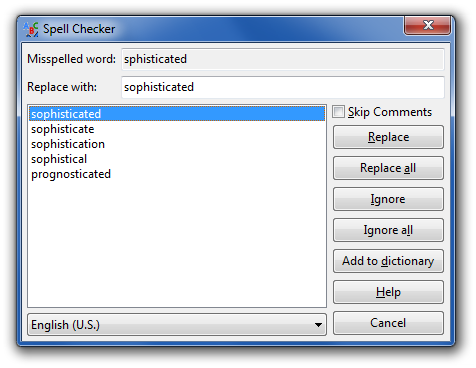
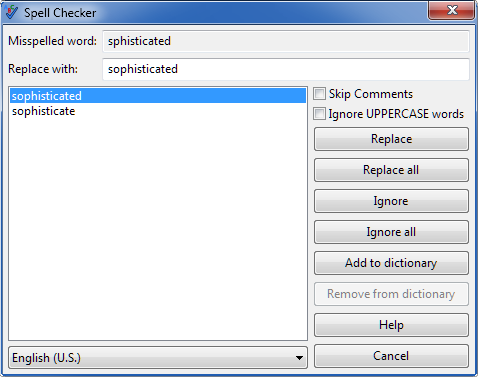
Update spell checker page

diff --git a/source/docs/3.1/Spell_Checker.html.md b/source/docs/3.1/Spell_Checker.html.md
@@ -19,6 +19,11 @@ Skip Comments
 when your comments are mostly things like karaoke scripts or the
 original script which you're translating to a new language.
 
+Ignore UPPERCASE words
+: Skip over words written in all caps. Useful if your subtitles have a sea of
+made-up acronyms and you don't feel like spending the time adding them all to
+the dictionary.
+
 Replace
 : Replaces the found misspelled word with the chosen replacement. Note
 that the list box can be double-clicked to do this as well.
@@ -37,8 +42,12 @@ but continue to check for it in the future.
 
 Add to dictionary
 : Add the found word to the dictionary so it will not be detected as
-misspelled again. Note that it is currently not possible to remove
-words added from within Aegisub.
+misspelled again.
+
+Remove from dictionary
+: Remove the word currently in the **Replace with** field from the dictionary.
+Can only remove words which were added with the **Add to dictionary** function
+and not words in the standard dictionary.
 {: class="dl-horizontal"}
 
 At the bottom of the dialog box there is a dropdown box to choose the spell
@@ -50,7 +59,9 @@ Installers for many other languages are available [on our
 website](http://www.aegisub.org/downloads/#dictionaries). If we don't
 supply a dictionary for your language, check [Mozilla's set of
 dictionaries](https://wiki.mozilla.org/L10n:Dictionaries), or simply
-Google for "hunspell <i>&lt;language&gt;</i> dictionary".
+Google for "hunspell <i>&lt;language&gt;</i> dictionary". We welcome
+submissions of additional dictionaries to package - it can sometimes be hard
+for us to find dictionaries for languages which none of the developers speak.
 
 The OS X version of Aegisub includes all of the dictionaries we have.
 
